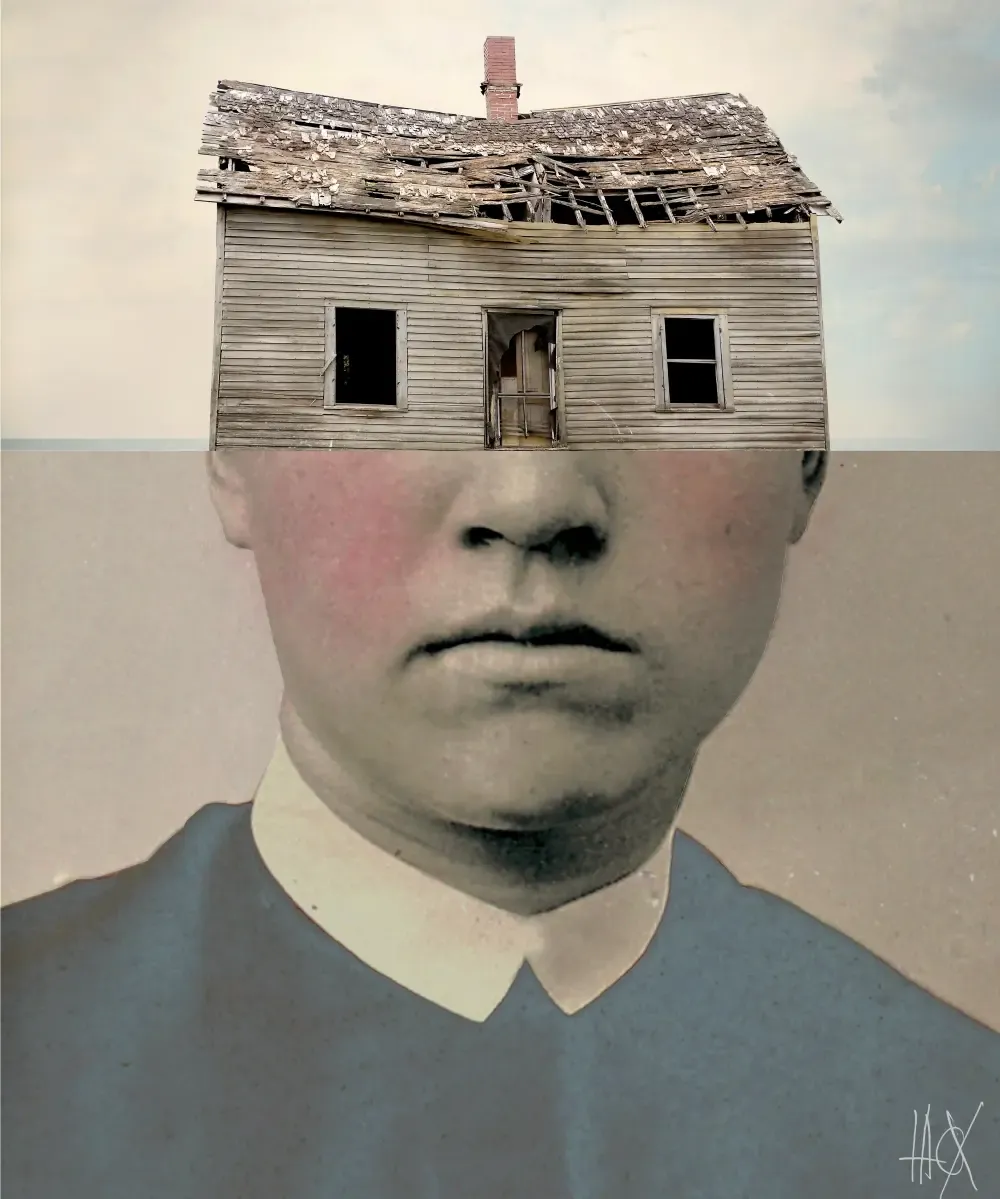
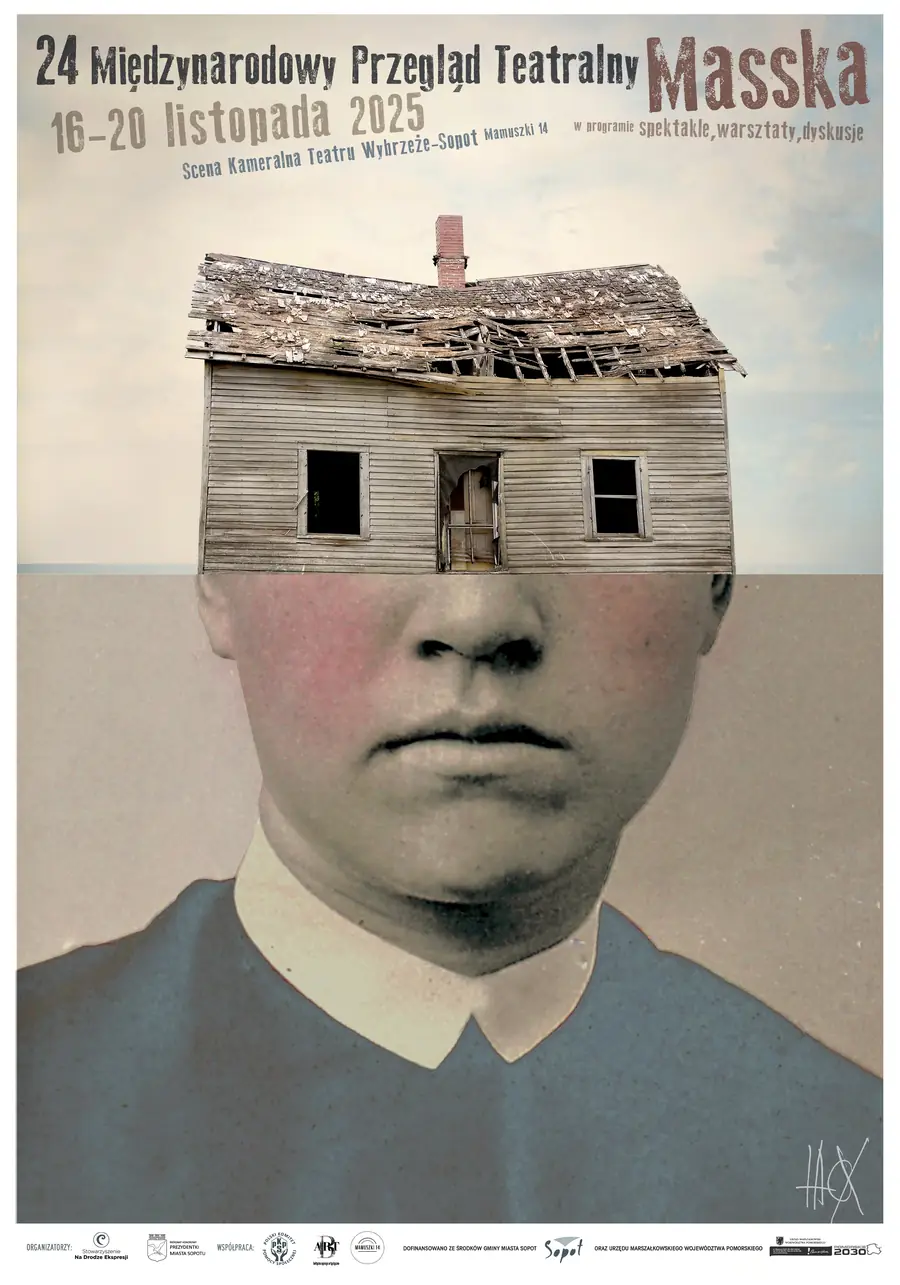
plakaty 2024 i 2025 w osi czasu, przewijanie dotykiem na telefonie
Skany JPG trafily do design/source/plakaty/ i sa konwertowane do WebP
przez tools/build_graphics.py. Os czasu: touch-action, overscroll-behavior,
szerszy kafel z widocznym kolejnym plakatem i podpowiedz o przesuwaniu.

diff --git a/src/data/edition.ts b/src/data/edition.ts
@@ -63,7 +63,7 @@ export interface PosterEntry {
 const posterFiles: Record<number, string | null> = {
   2026: '../assets/img/plakaty/2026.webp',
   2025: '../assets/img/plakaty/2025.webp',
-  2024: null,
+  2024: '../assets/img/plakaty/2024.webp',
   2023: '../assets/img/plakaty/2023.webp',
   2022: '../assets/img/plakaty/2022.webp',
   2021: '../assets/img/plakaty/2021.webp',

diff --git a/tools/build_graphics.py b/tools/build_graphics.py
@@ -13,6 +13,7 @@ Usage (needs Pillow):  python tools/build_graphics.py
 Outputs (all under public/):
     assets/img/lettering/*.webp   poster lettering cut-outs + header and plate logos
     assets/img/plakaty/2026*.webp poster for the archive, and its artwork without the title band
+    assets/img/plakaty/<year>.webp older posters, from the scans in design/source/plakaty/<year>.jpg
     assets/img/og-masska-2026.jpg social sharing image (1200x630)
     assets/img/texture/ink-edge.webp printed-ink edge used above dark sections
     assets/icons/*, favicon.ico   favicons and app icons
@@ -106,6 +107,23 @@ def posters(poster):
     save(og, IMG / "og-masska-2026.jpg", quality=82, optimize=True, progressive=True)
 
 
+# Share of the scan to keep (left, top, right, bottom) where it has a paper margin around the print
+ARCHIVE_TRIM = {
+    "2024": (0.0245, 0.0175, 0.9825, 0.9825),
+}
+
+
+def archive_posters():
+    """Converts the scans in design/source/plakaty/<year>.jpg to the web posters of the timeline."""
+    print("Archive posters")
+    for src in sorted((SRC / "plakaty").glob("*.jpg")):
+        img = Image.open(src).convert("RGB")
+        if src.stem in ARCHIVE_TRIM:
+            l, t, r, b = ARCHIVE_TRIM[src.stem]
+            img = img.crop((round(img.width * l), round(img.height * t), round(img.width * r), round(img.height * b)))
+        save(resize_to_width(img, 900), IMG / "plakaty" / f"{src.stem}.webp", quality=72, method=6)
+
+
 def ink_edge(poster):
     """A strip of printed ink that thins out upwards, made from the poster's bark texture.
     Used as a mask above dark sections so the dark block bleeds into the page."""
@@ -169,6 +187,7 @@ def main():
     poster = Image.open(SRC / "plakat-2026.webp").convert("RGB")
     stamp = lettering(poster)
     posters(poster)
+    archive_posters()
     ink_edge(poster)
     icons(stamp)
     print("Done.")

diff --git a/design/README.md b/design/README.md
@@ -6,6 +6,7 @@ Tu leżą pliki, z których powstają grafiki strony. Do `public/` trafiają tyl
 |---|---|
 | `source/plakat-2026.webp` | pełny plakat bieżącej edycji |
 | `source/masska-stamp.webp` | wycięty napis „MASSKA” (przezroczyste tło) |
+| `source/plakaty/<rok>.jpg` | skany plakatów z poprzednich lat (np. `2024.jpg`, `2025.jpg`); skrypt zamienia je na `plakaty/<rok>.webp` o szerokości 900 px (przycięcie marginesu skanu: `ARCHIVE_TRIM` w skrypcie) |
 | `source/lettering/<nazwa>.png` | (opcjonalnie) własne wycięcia napisów: `xxv`, `jubileuszowy`, `przeglad-teatralny`, `2026`. Bez nich napisy są wycinane z plakatu |
 
 Po zmianie któregoś pliku uruchom (wymaga Pillow):
